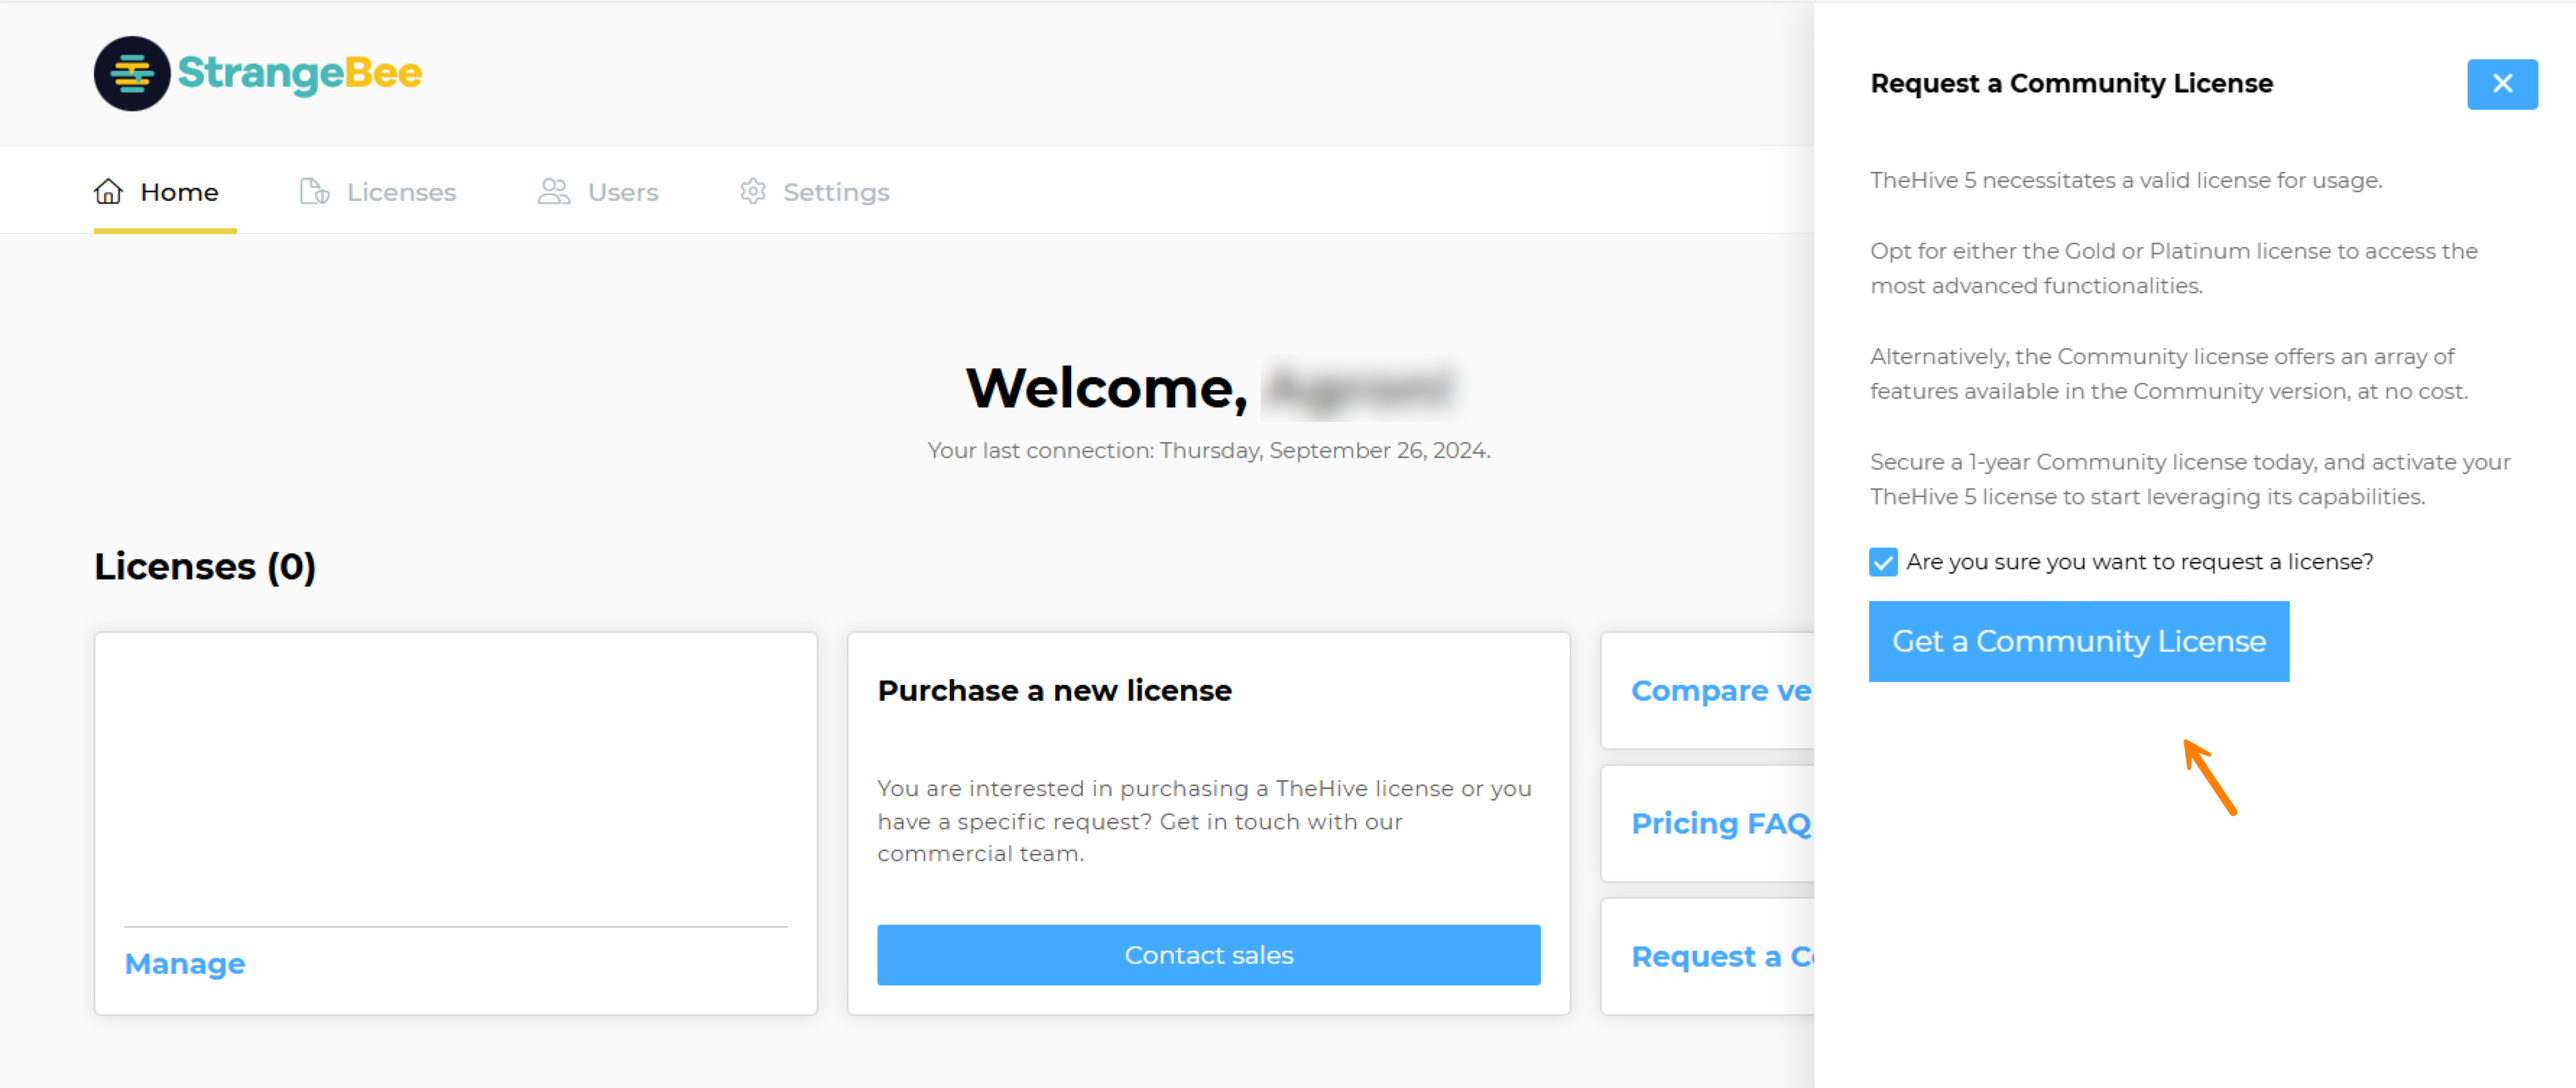
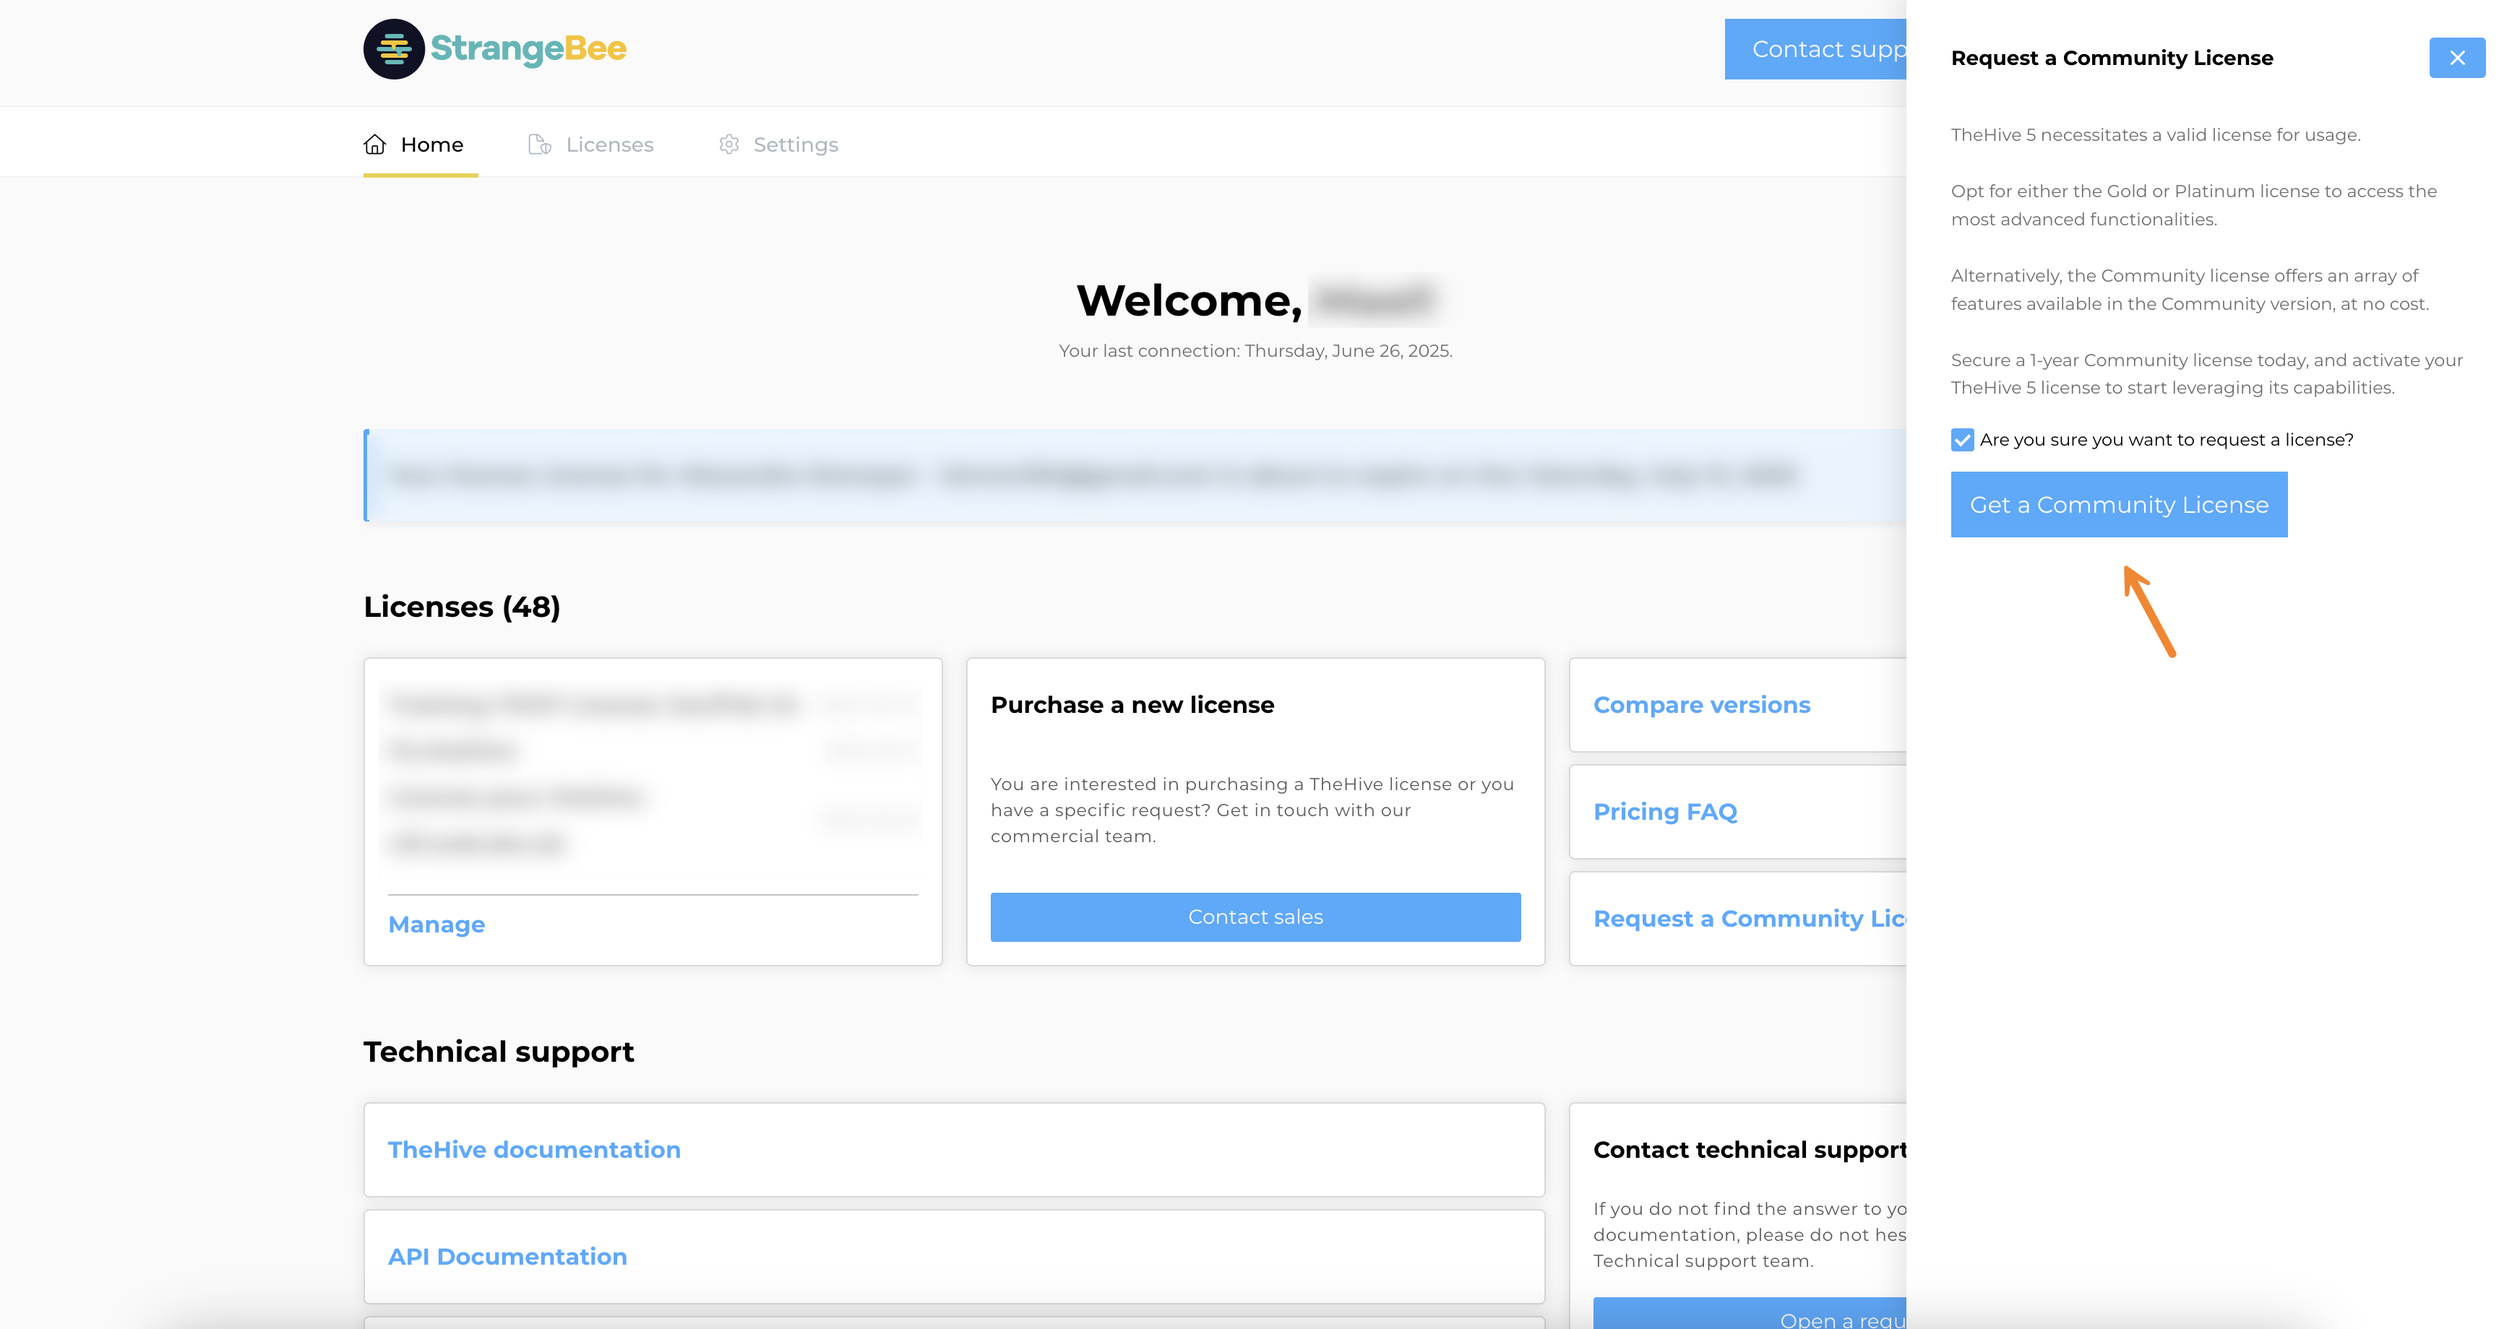
Added new screenshots for license activation

diff --git a/docs/thehive/administration/smtp/about-smtp.md b/docs/thehive/administration/smtp/about-smtp.md
@@ -1,6 +1,6 @@
 # About SMTP
 
-This topic explains what Simple Mail Transfer Protocol (SMTP) is and its usage in TheHive.
+This topic explains what Simple Mail Transfer Protocol (SMTP) is and how it's used in TheHive.
 
 ## What is SMTP
 
@@ -10,11 +10,17 @@ Simple Mail Transfer Protocol (SMTP) is the standard protocol used on the intern
 
 Using an SMTP server:
 
-* Provides a secure environment for sending emails.
-* Offers dedicated IP addresses along with flexible API and SMTP configurations.
-* Features user-friendly software for easy setup and management.
+* Provides a secure environment for sending emails
+* Offers dedicated IP addresses along with flexible API and SMTP configurations
+* Includes user-friendly software for easy setup and management
 
 ## SMTP server usage in TheHive
+
+[Configure a SMTP server](configure-smtp-server.md) in TheHive to enable sending:
+
+* [Email notifications to specific users in your organization](../../user-guides/organization/configure-organization/manage-notifications/notifiers/email-to-addr.md)
+* [Email notifications to all users in your organization](../../user-guides/organization/configure-organization/manage-notifications/notifiers/email-to-users.md)
+* [Emails for password resets and edits](../../user-guides/manage-password.md)
 
 <h2>Next steps</h2>
 

diff --git a/docs/thehive/installation/licenses/license.md b/docs/thehive/installation/licenses/license.md
@@ -33,7 +33,11 @@ This topic provides step-by-step instructions for activating or updating a [TheH
 
 2. Select the **Licenses** tab.
 
+    ![Licenses tab](../../images/installation/licenses-tab.png)
+
 3. Select **Activate** or **View details** for your product.
+
+    ![Activate or View details](../../images/installation/activate-view-details-license.png)
 
 4. Paste the challenge into the **License key activation challenge** field.
 
